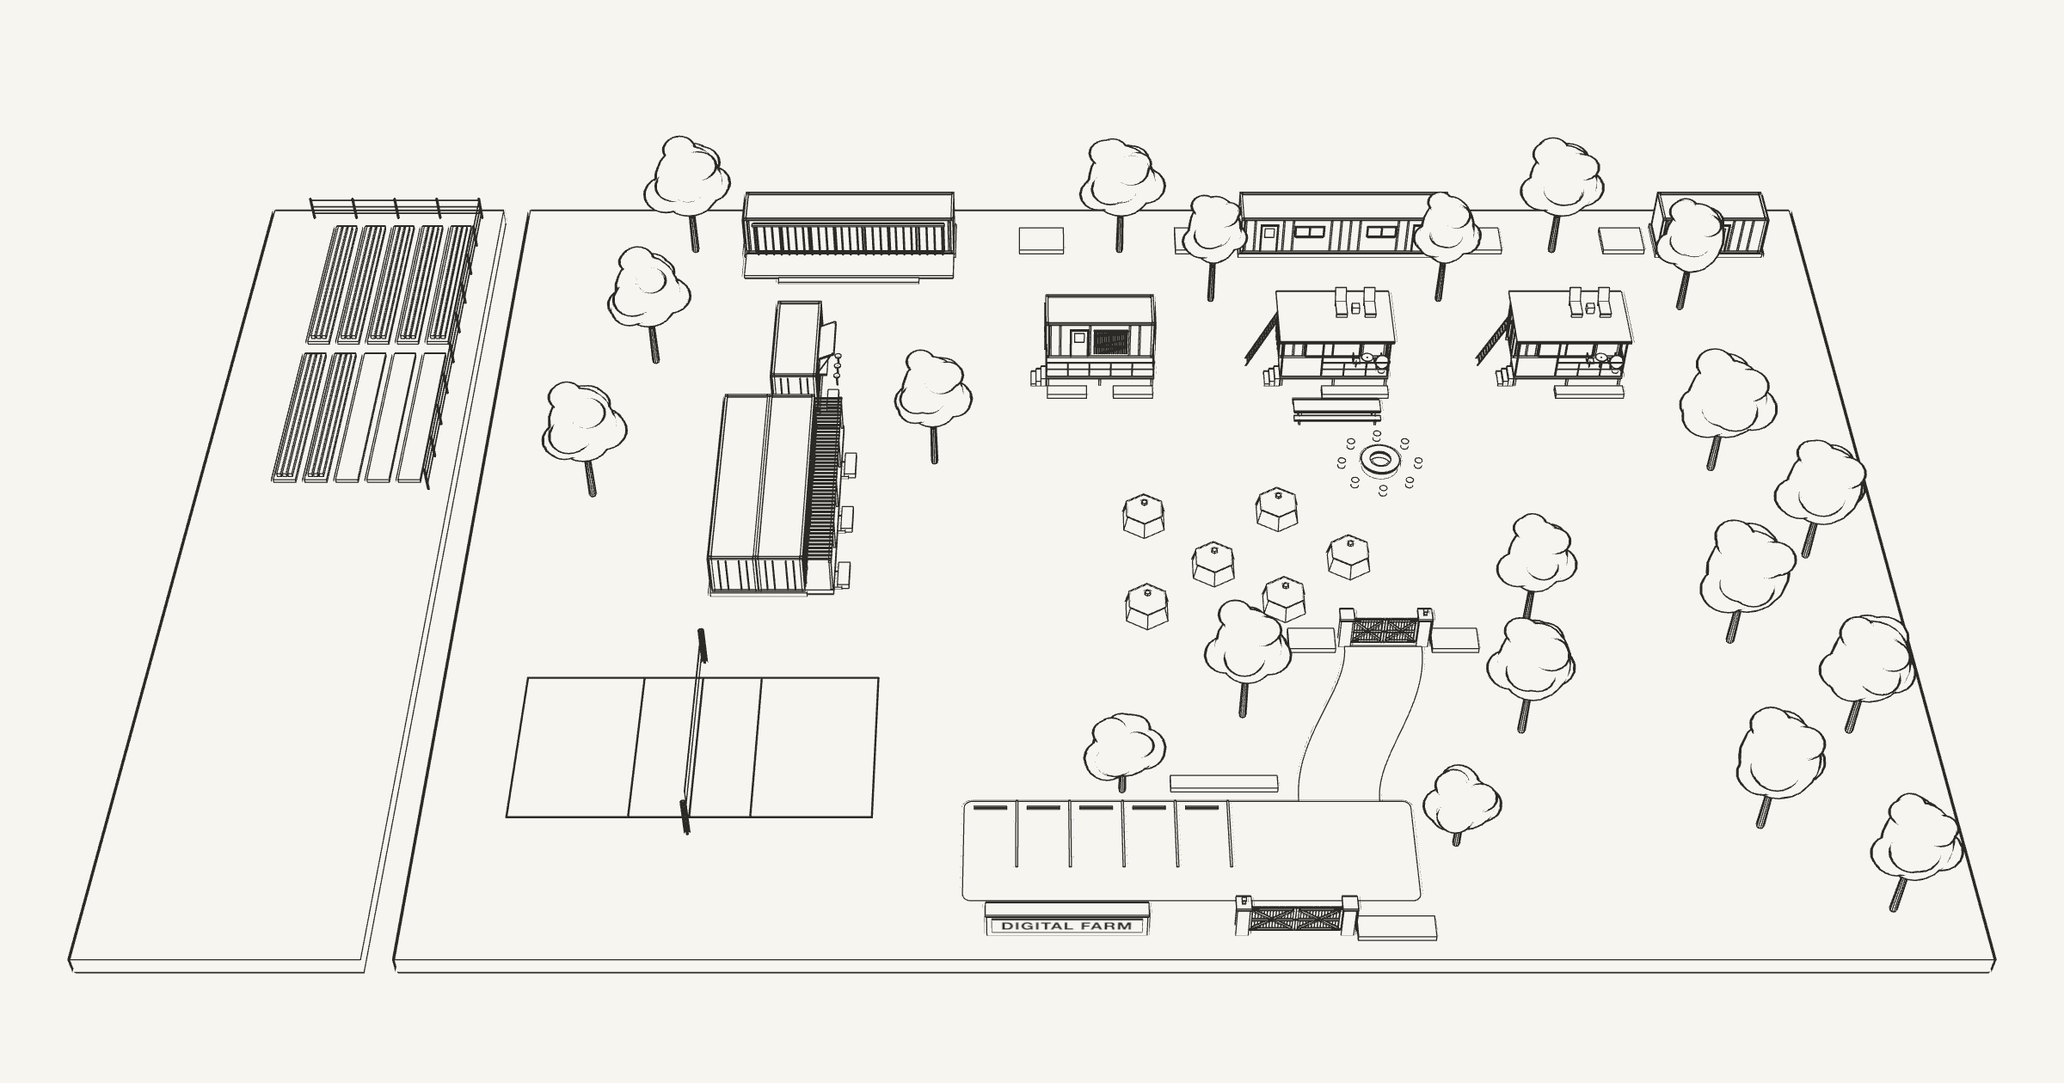
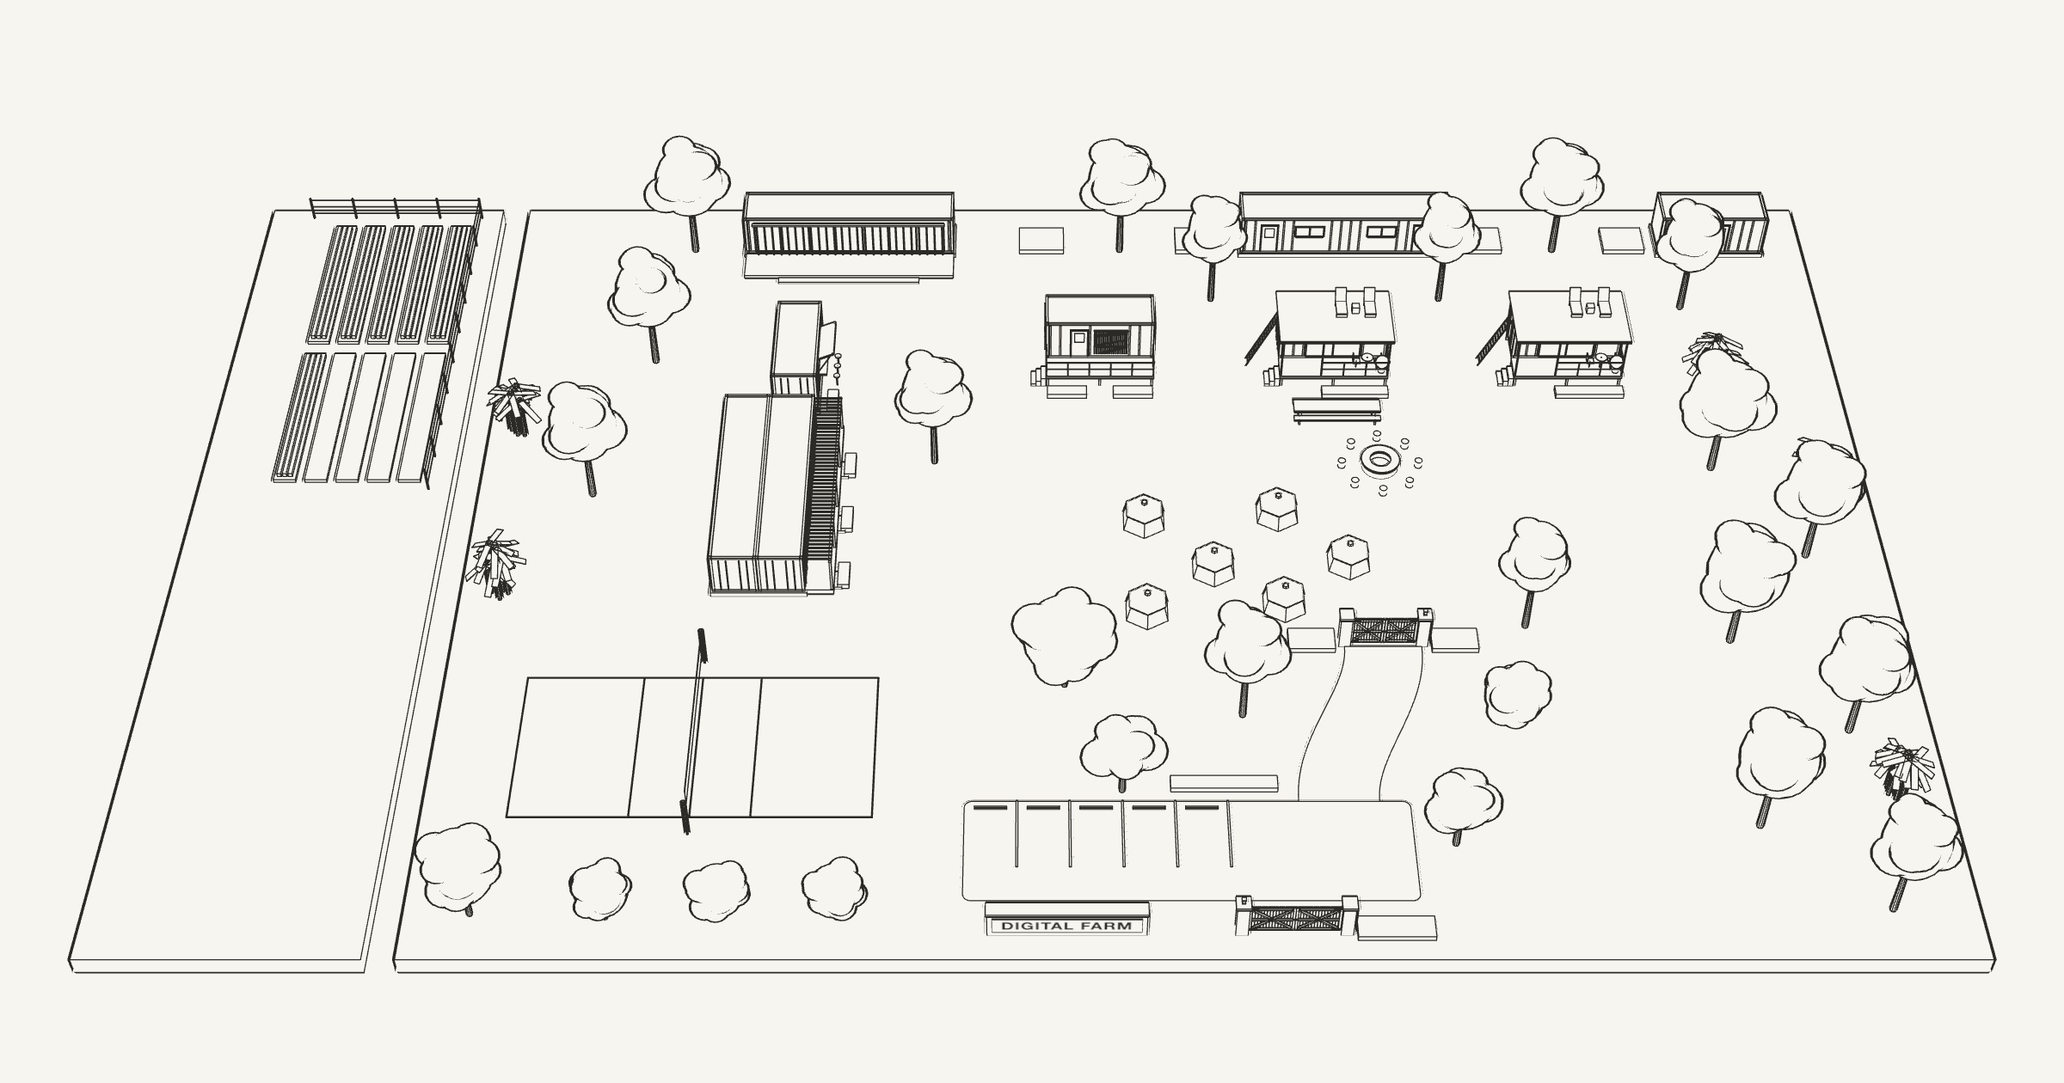
feat(home): fruit trees in the garden, after the founder's picture of the farm (D-071)
Making the film's first scene image (A1, the whole farm from above the
gate), the founder added mangoes, orange trees and banana clumps, and asked
for the homepage to follow. compound.json garden.fruit plants two mangoes,
four oranges and five banana clumps clear of the court's free zone, the
tents, decks and paths (an orange takes a shade tree's place by the rock
road). The 2D draws fruit ringed in a crown and bananas as fanned leaves;
the 3D gives them dark crowns with fruit and arching leaves, re-rendered.

The scene folders keep the founder's saved pictures on a rerun and give
every walk scene the A1 picture as its last reference, so each is the same
farm.

Claude-Session: https://claude.ai/code/session_01S6J7Hgv1KNEgdzApWwKxsU

diff --git a/src/components/home/words.ts b/src/components/home/words.ts
@@ -34,7 +34,7 @@ const en = {
   plans: {
     title: "2D",
     label:
-      "Plan of the compound, with the study room at the top and the gates at the bottom. At the top, the 40 ft study room on its deck, and beside it two buildings of their own: a 40 ft galley with a long worktop and two sinks, and a 20 ft public bathroom with two toilet rooms, two hand basins and a urinal. Below it, the row of three 20 ft containers on raised decks facing the courtyard: the farm office next to the bar, then two studios. Down the left, the bar and then the guest-room block in one line, their doors onto the veranda and the courtyard lawn: the stone fire pit with stools round it, a long timber table in front of the middle studio, and six small tents on a camping lawn between the guest rooms and the fire pit, ending at the fire. The study room's end is in line with the guest rooms. At the bottom, the inner gate, a rock road down to the green parking, and the outer gate beside the Digital Farm sign wall. On the lawn between the guest rooms and the parking, the volleyball court, 18 by 9 metres inside its 3 metre free zone, its long side across the plan and the net across its middle. To the left, past a break line, the land drawn close in one band from the study room to the first guest room: half of the vegetable field's two nearest blocks of raised beds behind their fence, turned to run west and cut there. At the cut an arrow links to the whole farm: the field, the nursery and the livestock. Through it all, the garden: big shade trees behind the study room and the galley, between the back row and the studios, beside the bar and the guest rooms, along the rock road and in a grove on the east lawn, and flower beds in the backyard, along each deck, by the guest rooms' windows, at both gates and behind the sign wall. Every name on the plan links to its page.",
+      "Plan of the compound, with the study room at the top and the gates at the bottom. At the top, the 40 ft study room on its deck, and beside it two buildings of their own: a 40 ft galley with a long worktop and two sinks, and a 20 ft public bathroom with two toilet rooms, two hand basins and a urinal. Below it, the row of three 20 ft containers on raised decks facing the courtyard: the farm office next to the bar, then two studios. Down the left, the bar and then the guest-room block in one line, their doors onto the veranda and the courtyard lawn: the stone fire pit with stools round it, a long timber table in front of the middle studio, and six small tents on a camping lawn between the guest rooms and the fire pit, ending at the fire. The study room's end is in line with the guest rooms. At the bottom, the inner gate, a rock road down to the green parking, and the outer gate beside the Digital Farm sign wall. On the lawn between the guest rooms and the parking, the volleyball court, 18 by 9 metres inside its 3 metre free zone, its long side across the plan and the net across its middle. To the left, past a break line, the land drawn close in one band from the study room to the first guest room: half of the vegetable field's two nearest blocks of raised beds behind their fence, turned to run west and cut there. At the cut an arrow links to the whole farm: the field, the nursery and the livestock. Through it all, the garden: big shade trees behind the study room and the galley, between the back row and the studios, beside the bar and the guest rooms, along the rock road and in a grove on the east lawn, and flower beds in the backyard, along each deck, by the guest rooms' windows, at both gates and behind the sign wall. Fruit trees, as in the founder's picture of the whole farm: a mango and three orange trees along the front lawn, a mango between the volleyball court and the tents, an orange beside the rock road, and banana clumps along the field's side and on the east lawn. Every name on the plan links to its page.",
     note: "Illustrative plan: containers drawn to size, layout not surveyed. The field is drawn close and cut at half; the farming page has all of it, with the nursery and the livestock.",
   },
   // The names drawn on the plan (compound-plan.tsx); a building's name by its compound.json id.
@@ -187,7 +187,7 @@ const rw: typeof en = {
   plans: {
     title: "2D",
     label:
-      "Igishushanyo cy'urugo, icyumba cyo kwigiramo kiri hejuru n'amarembo ari hasi. Hejuru, icyumba cyo kwigiramo cya ft 40 ku rubaho rwacyo, n'iruhande rwacyo inyubako ebyiri zihagaze ukwazo: igikoni cya ft 40 gifite kawunta ndende n'amalavabo abiri, n'ubwiherero rusange bwa ft 20 bufite ibyumba bibiri by'ubwiherero, amalavabo abiri yo gukaraba intoki n'aho abagabo banyarira (urinal). Munsi yacyo, umurongo w'amakontineri atatu ya ft 20 ku mbaho zizamuye zireba urugo rwo hagati: ibiro by'ifamu iruhande rw'akabari, hanyuma sitidiyo ebyiri. Ku ruhande rw'ibumoso, akabari hanyuma inyubako y'ibyumba by'abashyitsi ku murongo umwe, inzugi zabyo zireba ibaraza n'ibyatsi by'urugo rwo hagati: iziko ry'amabuye rikikijwe n'intebe, ameza maremare y'imbaho imbere ya sitidiyo yo hagati, n'amahema mato atandatu ku byatsi byo gukambikamo hagati y'ibyumba by'abashyitsi n'iziko, arangirira ku muriro. Impera y'icyumba cyo kwigiramo iri ku murongo umwe n'ibyumba by'abashyitsi. Hasi, irembo ry'imbere, umuhanda w'amabuye umanuka ugana kuri parikingi y'ibyatsi, n'irembo ryo hanze iruhande rw'urukuta rwanditseho Digital Farm. Ku byatsi biri hagati y'ibyumba by'abashyitsi na parikingi, ikibuga cya volleyball cya metero 18 kuri 9 imbere y'umwanya wacyo w'ubwisanzure wa metero 3, uruhande rwacyo rurerure rutambitse ku gishushanyo n'urushundura hagati yacyo. Ibumoso, nyuma y'umurongo ugabanya, ubutaka bushushanyije bwegerejwe mu mukandara umwe kuva ku cyumba cyo kwigiramo kugeza ku cyumba cya mbere cy'abashyitsi: kimwe cya kabiri cy'amatsinda abiri y'uturima tuzamuye tw'umurima w'imboga twegereye kurusha utundi, inyuma y'uruzitiro rwatwo, duhindukiye tugana iburengerazuba kandi dukatiwe aho. Aho bikatiwe, umwambi werekeza ku ifamu yose: umurima, ubuhumbikiro n'ubworozi. Hose, ubusitani: ibiti binini by'igicucu inyuma y'icyumba cyo kwigiramo n'igikoni, hagati y'umurongo w'inyuma na sitidiyo, iruhande rw'akabari n'ibyumba by'abashyitsi, ku nkengero z'umuhanda w'amabuye no mu ishyamba rito ku byatsi by'iburasirazuba, n'uturima tw'indabo mu gikari, ku nkengero za buri rubaho, iruhande rw'amadirishya y'ibyumba by'abashyitsi, ku marembo yombi n'inyuma y'urukuta rw'izina. Buri zina riri ku gishushanyo rifungura paji yaryo.",
+      "Igishushanyo cy'urugo, icyumba cyo kwigiramo kiri hejuru n'amarembo ari hasi. Hejuru, icyumba cyo kwigiramo cya ft 40 ku rubaho rwacyo, n'iruhande rwacyo inyubako ebyiri zihagaze ukwazo: igikoni cya ft 40 gifite kawunta ndende n'amalavabo abiri, n'ubwiherero rusange bwa ft 20 bufite ibyumba bibiri by'ubwiherero, amalavabo abiri yo gukaraba intoki n'aho abagabo banyarira (urinal). Munsi yacyo, umurongo w'amakontineri atatu ya ft 20 ku mbaho zizamuye zireba urugo rwo hagati: ibiro by'ifamu iruhande rw'akabari, hanyuma sitidiyo ebyiri. Ku ruhande rw'ibumoso, akabari hanyuma inyubako y'ibyumba by'abashyitsi ku murongo umwe, inzugi zabyo zireba ibaraza n'ibyatsi by'urugo rwo hagati: iziko ry'amabuye rikikijwe n'intebe, ameza maremare y'imbaho imbere ya sitidiyo yo hagati, n'amahema mato atandatu ku byatsi byo gukambikamo hagati y'ibyumba by'abashyitsi n'iziko, arangirira ku muriro. Impera y'icyumba cyo kwigiramo iri ku murongo umwe n'ibyumba by'abashyitsi. Hasi, irembo ry'imbere, umuhanda w'amabuye umanuka ugana kuri parikingi y'ibyatsi, n'irembo ryo hanze iruhande rw'urukuta rwanditseho Digital Farm. Ku byatsi biri hagati y'ibyumba by'abashyitsi na parikingi, ikibuga cya volleyball cya metero 18 kuri 9 imbere y'umwanya wacyo w'ubwisanzure wa metero 3, uruhande rwacyo rurerure rutambitse ku gishushanyo n'urushundura hagati yacyo. Ibumoso, nyuma y'umurongo ugabanya, ubutaka bushushanyije bwegerejwe mu mukandara umwe kuva ku cyumba cyo kwigiramo kugeza ku cyumba cya mbere cy'abashyitsi: kimwe cya kabiri cy'amatsinda abiri y'uturima tuzamuye tw'umurima w'imboga twegereye kurusha utundi, inyuma y'uruzitiro rwatwo, duhindukiye tugana iburengerazuba kandi dukatiwe aho. Aho bikatiwe, umwambi werekeza ku ifamu yose: umurima, ubuhumbikiro n'ubworozi. Hose, ubusitani: ibiti binini by'igicucu inyuma y'icyumba cyo kwigiramo n'igikoni, hagati y'umurongo w'inyuma na sitidiyo, iruhande rw'akabari n'ibyumba by'abashyitsi, ku nkengero z'umuhanda w'amabuye no mu ishyamba rito ku byatsi by'iburasirazuba, n'uturima tw'indabo mu gikari, ku nkengero za buri rubaho, iruhande rw'amadirishya y'ibyumba by'abashyitsi, ku marembo yombi n'inyuma y'urukuta rw'izina. Ibiti by'imbuto nk'uko biri ku ifoto y'umurima wose: umwembe n'amacunga atatu ku byatsi by'imbere, umwembe hagati y'ikibuga cya volleyball n'amahema, icunga iruhande rw'umuhanda w'amabuye, n'insina ku ruhande rw'umurima no ku byatsi by'iburasirazuba. Buri zina riri ku gishushanyo rifungura paji yaryo.",
     note: "Igishushanyo cyo gusobanura: amakontineri ashushanyije ku ngano yayo nyayo, ariko imiterere ntirapimwa ku butaka. Umurima ushushanyije wegerejwe kandi ukatiwe hagati; paji y'ubuhinzi iwugaragaza wose, hamwe n'ubuhumbikiro n'ubworozi.",
   },
   plan: {

diff --git a/scripts/site/render/compound.html b/scripts/site/render/compound.html
@@ -285,7 +285,7 @@ function ledTexture() {
 // deepteal, forest and navy are the remastered heroes' paints, for the film's references (?paint=, walk mode)
 const PAINT = { saffron: "#d9a21b", oxide: "#8a3227", teal: "#3e8a86", deepteal: "#1e6a6c", forest: "#1d4d47", navy: "#27386b" }
 // thin parts get crease lines but no silhouette, so railings and slats stay fine in the line drawing
-const THIN = new Set(["tape", "net", "wire", "red", "white-frame", "steel", "black", "slat", "cable", "louvre", "frame-saffron", "frame-oxide", "frame-teal", "frame-deepteal", "frame-forest", "frame-navy"])
+const THIN = new Set(["tape", "net", "wire", "red", "white-frame", "steel", "black", "slat", "cable", "louvre", "frame-saffron", "frame-oxide", "frame-teal", "frame-deepteal", "frame-forest", "frame-navy", "bananaleaf"])
 const MAT = {}
 function mat(name) {
   if (MAT[name]) return MAT[name]
@@ -354,6 +354,11 @@ function mat(name) {
       bark: () => std({ color: "#c9baa3", roughness: 0.9 }),
       leaf: () => std({ color: "#5f7c46", roughness: 0.9 }),
       leaf2: () => std({ color: "#6f8a52", roughness: 0.9 }),
+      leaf3: () => std({ color: "#3f6234", roughness: 0.7 }), // the fruit trees' dense, glossy crowns
+      mango: () => std({ color: "#e7a33a", roughness: 0.5 }),
+      orange: () => std({ color: "#f0821f", roughness: 0.45 }),
+      bananastem: () => std({ color: "#8c9a57", roughness: 0.8 }),
+      bananaleaf: () => std({ color: "#6ea443", roughness: 0.7, side: THREE.DoubleSide }),
       gum: () => std({ color: "#7a8d68", roughness: 0.9 }), // eucalyptus grey-green
       cushion: () => std({ color: "#e9e3d6", roughness: 0.95 }),
       tape: () => std({ color: "#f4f3ee", roughness: 0.8 }), // the court's webbing lines
@@ -888,10 +893,46 @@ function shadeTree(x, z, r, height, crown) {
     ellipsoid(x + Math.cos(a) * d, hc + up * rh * 0.9, z + Math.sin(a) * d, r * s, r * s * 0.75, r * s, k % 3 ? "leaf" : "leaf2")
   }
 }
+// A fruit tree (compound.json garden.fruit, D-071): a short trunk under a dense, dark crown that starts low, its
+// fruit dotted over the crown in the real render.
+function fruitTree(x, z, r, height, crown, fruit) {
+  const rh = (height - crown) / 2, hc = crown + rh, trunk = 0.07 + r * 0.03
+  cyl(x, z, trunk, G, crown + 0.3, "bark", 10, trunk * 0.8)
+  ellipsoid(x, hc, z, r * 0.8, rh * 0.95, r * 0.8, "leaf3")
+  for (let k = 0; k < 12; k++) {
+    const a = (k / 12) * Math.PI * 2 * 2.3 + grnd() * 0.8, up = (k % 3) / 2 - 0.4, d = r * (0.45 + grnd() * 0.15)
+    const s = 0.34 + grnd() * 0.1
+    ellipsoid(x + Math.cos(a) * d, hc + up * rh * 0.8, z + Math.sin(a) * d, r * s, r * s * 0.8, r * s, k % 2 ? "leaf3" : "leaf")
+  }
+  if (LINE) return // at this scale fruit would only clutter the line drawing
+  const size = fruit === "mango" ? 0.1 : 0.08
+  for (let k = 0, n = Math.round(r * 10); k < n; k++) {
+    const a = grnd() * Math.PI * 2, e = (grnd() - 0.35) * 1.1
+    add(new THREE.SphereGeometry(size, 8, 6), fruit, { pos: [x + Math.cos(a) * Math.cos(e) * r * 0.84, hc + Math.sin(e) * rh * 0.9, z + Math.sin(a) * Math.cos(e) * r * 0.84] })
+  }
+}
+// A banana clump: a few stems, each crowned with long leaves arching out and down.
+function banana(x, z, r) {
+  for (let k = 0; k < 6; k++) {
+    const a = (k / 6) * Math.PI * 2 + grnd() * 0.5, d = k ? r * (0.2 + grnd() * 0.25) : 0
+    const h = 2.4 + grnd() * 1.0, sx = x + Math.cos(a) * d, sz = z + Math.sin(a) * d
+    cyl(sx, sz, 0.1, G, h, "bananastem", 8, 0.07)
+    for (let j = 0; j < 5; j++) {
+      const b = (j / 5) * Math.PI * 2 + grnd(), len = r * (0.9 + grnd() * 0.4), droop = 0.35 + grnd() * 0.35
+      const leaf = add(new THREE.BoxGeometry(len, 0.02, 0.34), "bananaleaf", {
+        pos: [sx + Math.cos(b) * len * 0.45 * Math.cos(droop), G + h - Math.sin(droop) * len * 0.45, sz + Math.sin(b) * len * 0.45 * Math.cos(droop)],
+      })
+      leaf.rotation.set(0, -b, -droop)
+    }
+  }
+}
 {
-  const { trees, flowers } = C.garden
+  const { trees, flowers, fruit } = C.garden
   for (const [x, z, r] of trees.list) shadeTree(x, z, r, trees.h, trees.crown)
   for (const [x, z, r] of trees.parking) shadeTree(x, z, r, trees.parkingH, trees.parkingCrown)
+  for (const [x, z, r] of fruit.mango) fruitTree(x, z, r, fruit.mangoH, fruit.mangoCrown, "mango")
+  for (const [x, z, r] of fruit.orange) fruitTree(x, z, r, fruit.orangeH, fruit.orangeCrown, "orange")
+  for (const [x, z, r] of fruit.banana) banana(x, z, r)
   const BLOOMS = ["bloom", "bloom2", "bloom3", "bloom4"]
   for (const [x0, z0, x1, z1] of flowers.list) {
     const h = flowers.h, e = 0.06

diff --git a/src/components/home/compound-plan.tsx b/src/components/home/compound-plan.tsx
@@ -442,7 +442,8 @@ function Continues({ w }: { w: W }) {
 }
 
 // The garden (compound.json garden), from the outer gate to the backyard: each big tree a scalloped crown over
-// its trunk, as plans draw trees, and each flower bed its edge with blooms dotted inside. Drawn under everything,
+// its trunk, as plans draw trees, each fruit tree the same with its fruit ringed inside, each banana clump its
+// fanned leaves, and each flower bed its edge with blooms dotted inside. Drawn under everything,
 // so a crown never hides a name.
 function Tree({ at: [cx, cy], r }: { at: Point; r: number }) {
   const n = Math.max(9, Math.round(r * 5))
@@ -452,6 +453,42 @@ function Tree({ at: [cx, cy], r }: { at: Point; r: number }) {
   return (
     <g>
       <path d={d} {...thin} />
+      <circle cx={f(cx)} cy={f(cy)} r={0.18} fill="currentColor" />
+    </g>
+  )
+}
+
+// A fruit tree (compound.json garden.fruit, D-071): a shade tree's scalloped crown with its fruit ringed inside.
+function FruitTree({ at: [cx, cy], r, fruit }: { at: Point; r: number; fruit: number }) {
+  return (
+    <g>
+      <Tree at={[cx, cy]} r={r} />
+      {Array.from({ length: fruit }, (_, k) => {
+        const a = (2 * Math.PI * k) / fruit + 0.4
+        return <circle key={k} cx={f(cx + r * 0.58 * Math.cos(a))} cy={f(cy + r * 0.58 * Math.sin(a))} r={0.17} {...thin} />
+      })}
+    </g>
+  )
+}
+
+// A banana clump, as plans draw bananas and palms: long leaves fanning out from the stems.
+function Banana({ at: [cx, cy], r }: { at: Point; r: number }) {
+  const n = 7
+  return (
+    <g>
+      {Array.from({ length: n }, (_, k) => {
+        const a = (2 * Math.PI * k) / n + 0.3
+        const [tx, ty] = [cx + r * Math.cos(a), cy + r * Math.sin(a)]
+        const [mx, my] = [cx + r * 0.55 * Math.cos(a), cy + r * 0.55 * Math.sin(a)]
+        const [nx, ny] = [-Math.sin(a) * r * 0.2, Math.cos(a) * r * 0.2]
+        return (
+          <path
+            key={k}
+            d={`M${f(cx)} ${f(cy)}Q${f(mx + nx)} ${f(my + ny)} ${f(tx)} ${f(ty)}Q${f(mx - nx)} ${f(my - ny)} ${f(cx)} ${f(cy)}Z`}
+            {...thin}
+          />
+        )
+      })}
       <circle cx={f(cx)} cy={f(cy)} r={0.18} fill="currentColor" />
     </g>
   )
@@ -480,6 +517,15 @@ function Garden() {
     <g>
       {[...garden.trees.list, ...garden.trees.parking].map(([x, y, r]) => (
         <Tree key={`${x}-${y}`} at={T([x, y])} r={r} />
+      ))}
+      {garden.fruit.mango.map(([x, y, r]) => (
+        <FruitTree key={`m${x}-${y}`} at={T([x, y])} r={r} fruit={6} />
+      ))}
+      {garden.fruit.orange.map(([x, y, r]) => (
+        <FruitTree key={`o${x}-${y}`} at={T([x, y])} r={r} fruit={4} />
+      ))}
+      {garden.fruit.banana.map(([x, y, r]) => (
+        <Banana key={`b${x}-${y}`} at={T([x, y])} r={r} />
       ))}
       {garden.flowers.list.map((b) => (
         <Flowers key={b.join()} box={flip(b)} />

diff --git a/src/lib/design-blur.generated.ts b/src/lib/design-blur.generated.ts
@@ -6,7 +6,7 @@ export const DESIGN_BLUR: Record<string, string> = {
[8 lines of base64/hex data omitted]

diff --git a/study/execution/decision-log.md b/study/execution/decision-log.md
@@ -243,3 +243,6 @@ Context: the founder sent four photos (2026-10-31 11:37, media dn-3279 to dn-328
 
 **D-070 · 2026-11-02 · The lake plot is ours: a second plot on the water, about 5 minutes by road from the compound; the film starts there.**
 Context: the founder said (2026-11-02) that the water's edge in the 2026-10-25 footage (IMG_3155 to IMG_3157, survey frames #1 to #7), which the homepage hero is remastered from, is on a second plot that is also ours, about 5 minutes from the land where the places stand. The footage agrees: the lake clips end at 16:31 and the gate clip starts at 16:37. Consequence: those rows in `study/registers/media.csv` move from `neighbour` to `land` (the lake plot); the ones with people stay private. D-027 holds for the compound plot (a neighbour's plot lies between it and the water) but no longer for the farm as a whole: the farm has a lakeside, on its second plot. The 50 m rule applies to anything built there, and the livestock stay on the compound plot's arm. The homepage film is a walk from the lake plot, along the road, through the gate and the parking, past every place as the homepage 2D lays them out; each place looks as its remastered hero does (concept, film.md rule 2). Still unknown: the lake plot's size, its boundary and its title (the pin or UPI, gate G0, now for two plots).
+
+**D-071 · 2026-11-02 · Fruit trees in the compound's garden, after the founder's picture of the whole farm.**
+Context: making the film's first scene image (A1, the whole farm from above the gate, in Nano Banana from the scene folders), the founder added fruit trees: mangoes heavy with fruit and orange trees along the front lawn and by the volleyball court, and banana clumps along the field's fence and on the east lawn. He asked for the homepage 2D and 3D to follow it and for the picture to be the reference. Decision: compound.json `garden.fruit` plants two mangoes (6 m, crown from 1.6 m), four oranges (3.6 m) and five banana clumps [A, varieties not chosen], at least 1 m off the volleyball court's free zone and clear of the tents, decks, parking and paths; the orange by the rock road takes the place of a shade tree. The 2D draws a fruit tree as a crown with its fruit ringed inside and a banana clump as fanned leaves; the 3D gives them dense dark crowns with fruit, and stems with arching leaves. The picture (media gm-scene-a1-front) is the last reference of every scene of the walk. Still open: the varieties, and whether the master plan's own trees (site.json) take fruit trees too; the AI's second entrance at the field's corner and the harvest crates are not taken.
